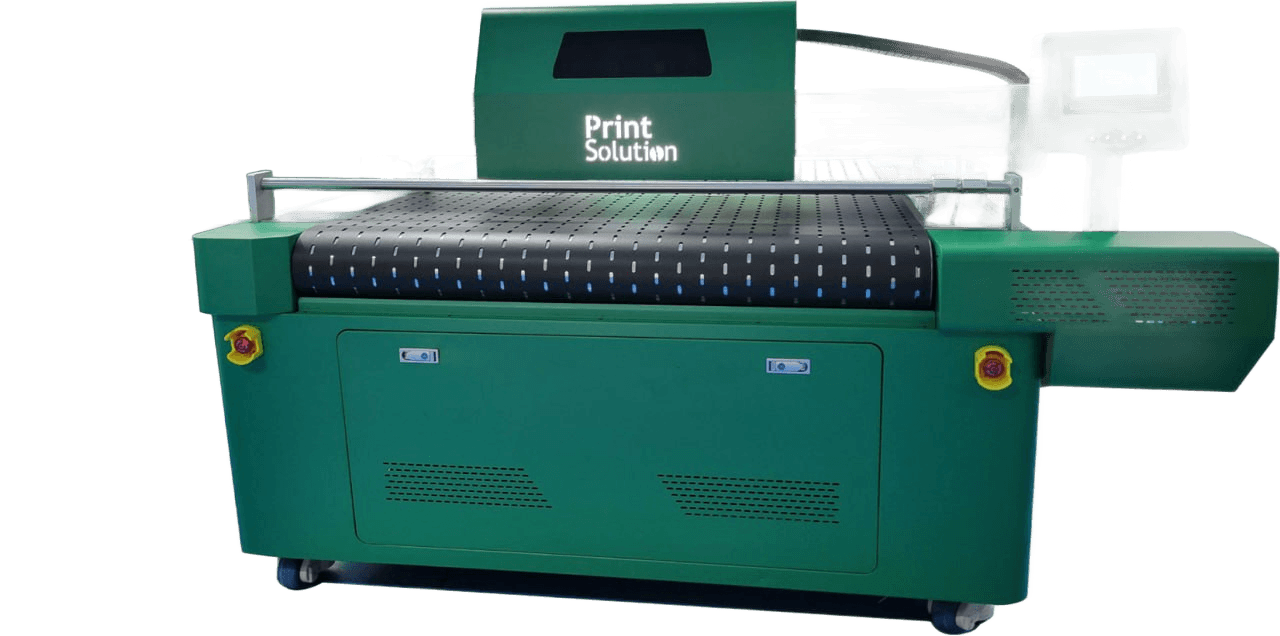
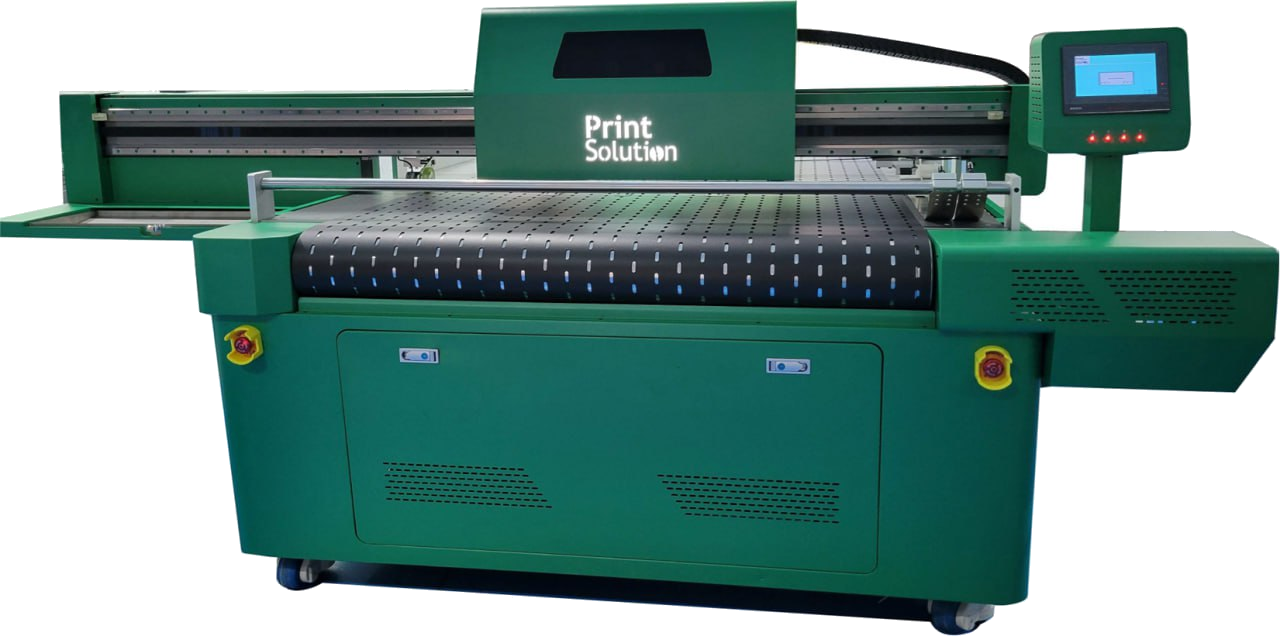
EDM-650X: scontorno v4 flood-fill approvato, usato ovunque

diff --git a/src/app/soluzioni/packaging/page.tsx b/src/app/soluzioni/packaging/page.tsx
@@ -64,7 +64,7 @@ const products = [
     ],
     gradient: "from-magenta-500 to-magenta-600",
     icon: "🖨",
-    image: "/images/products/edm-650x-2hd.jpg",
+    image: "/images/products/edm-650x-2hd-nobg-v4.png",
     href: "/prodotti/edm-650x",
     brand: "Print Solution",
     brandHref: null,
